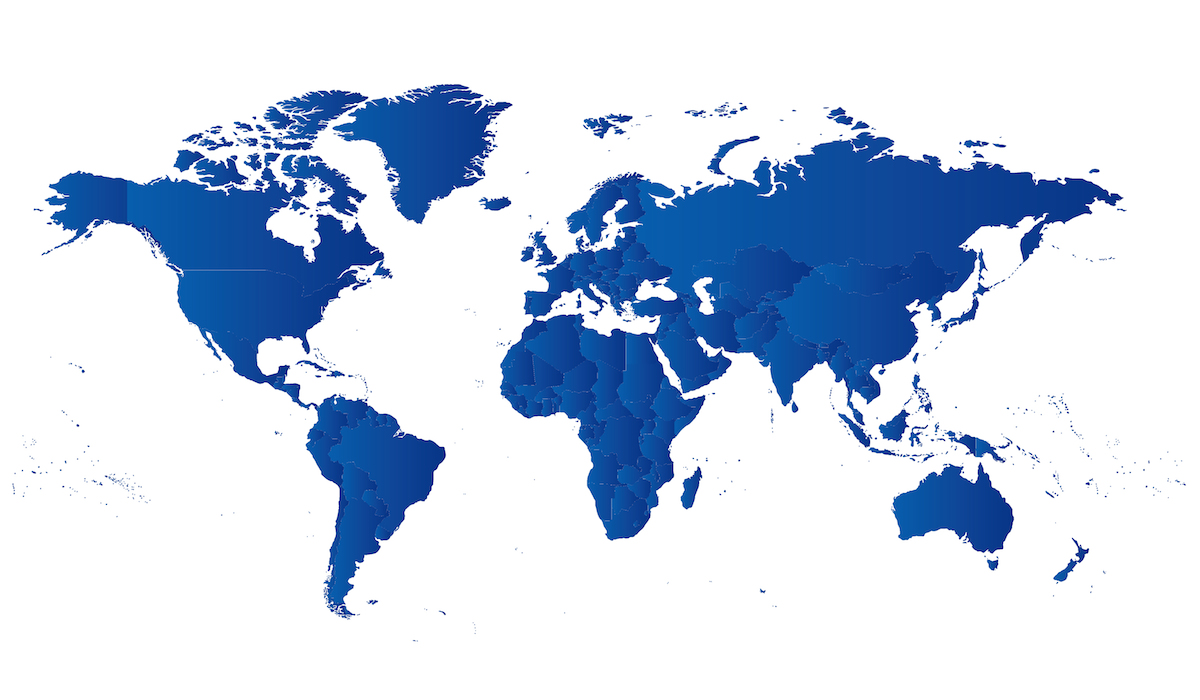
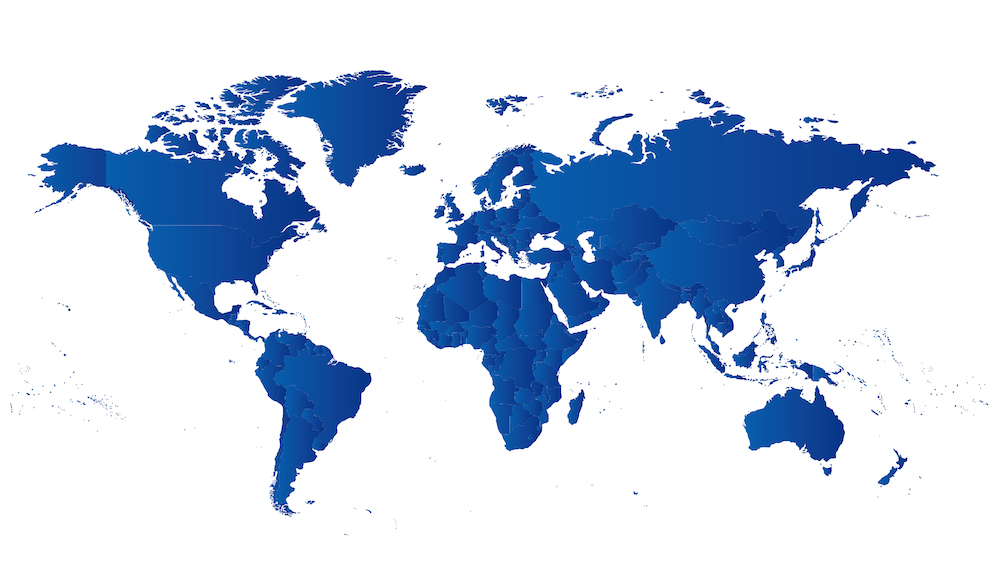
jquery toggle experiment

diff --git a/contact.html b/contact.html
@@ -26,7 +26,7 @@
   </header>
 
 <body>
-    <div id="total">
+ 
       <div id="map">
         <div class="NAmerica" id="USA" ></div>
         <div class="SAmerica" id="SA" ></div>
@@ -39,9 +39,9 @@
         <div id="ContactPane">
 
             <div class="NAmerica Africa">
-
-              <h3>North America Sales | Oryx World HQ</h3>
               <p class="ContactPhone">
+                  North America Sales </br>
+                  </br>
                   phone:</br>
                   +1 (704) 893-0202</br>
                   email:</br>
@@ -52,13 +52,22 @@
                   Indian Trail, NC 28079</br>
                   United States of America</br>
               </p>
-
             </div>
 
             <div class="SAmerica">
-              <p></p>
-              <p></br>
-                  </p>
+            <p class="ContactPhone">
+                  South America Sales | Jose Rosa Rodrigues</br>
+                  </br>
+                  phone:</br>
+                  +55-11-49410343</br>
+                  email:</br>
+                  sales@oryxsystems.com</br>
+              </p>
+             
+              <p class="ContactAddress">1064 Van Buren Ave | Suite-6</br>
+                  Indian Trail, NC 28079</br>
+                  United States of America</br>
+              </p>
             </div>
             <div class="Europe">
               <p></p>
@@ -77,41 +86,44 @@
             </div>
         </div>
       </div>
-    </div>
+
     <script type="text/javascript">
       $(document).ready(function() {
         var $overlay = $('<div id="overlay"></div>');
         var $caption = $("<p>Click to clear</p>");
 
-      $overlay.append($caption);
-      $("body").append($overlay);
+          $overlay.append($caption);
+          $("body").append($overlay);
 
-      $("#map div").click(function(){
-        //varClass = null;
+          $("#map div").click(function(){
+          //varClass = null;
 
-        console.log($(varClass));
-          //console.log($(this));
+            console.log($(varClass));
+            //console.log($(this));
 
-          //Trying to get varClass variable have the class propert ex".NAmerica"
-          var varClass = $(this).attr("class");
-          $overlay.show();
-          //alert('Total is ' + varClass);
-          //If I manually select then modify the ".NAmerica" class the effect works
-          $("#ContactPane ." + varClass).addClass("show").show().css({"background-color":"none","z-index":"50"});
-          $(".MapCLick").hide();
+            //Trying to get varClass variable have the class propert ex".NAmerica"
+            var varClass = $(this).attr("class");
+            $overlay.show();
+            //alert('Total is ' + varClass);
+            //If I manually select then modify the ".NAmerica" class the effect works
+            $("#ContactPane ." + varClass).addClass("show").show().css({"background-color":"none","z-index":"50"});
+            $(".MapCLick").hide();
+          });
+
+        $overlay.click(function(){
+          $overlay.hide();
+          $("#ContactPane .NAmerica").css({"background-color":"transparent","z-index":"0"});
+          $("#ContactPane .SAmerica").css({"background-color":"none","z-index":"0"});
+          $("#ContactPane .Africa").css({"background-color":"none","z-index":"0"});
+          $("#ContactPane .Europe").css({"background-color":"none","z-index":"0"});
+          $(".MapCLick").show().css({"background-color":"transparent"});        
+        });
+
+          $(".ContactPhone").click(function(){
+          $(".ContactPhone").slideDown( "slow", function(){;     
+          });
+        });
       });
-
-      $overlay.click(function(){
-        $overlay.hide();
-        $("#ContactPane .NAmerica").css({"background-color":"none","z-index":"0"});
-        $("#ContactPane .SAmerica").css({"background-color":"none","z-index":"0"});
-        $("#ContactPane .Africa").css({"background-color":"none","z-index":"0"});
-        $("#ContactPane .Europe").css({"background-color":"none","z-index":"0"});
-        $(".MapCLick").show().css({"background-color":"transparent"});        
-
-
-      });
-    });
     </script>
 </body>
 </html>

diff --git a/css/contact.css b/css/contact.css
@@ -3,53 +3,54 @@ Contact TEST COMMENT FOR GIT
 __________________________________
 html {
 	overflow: visible;
-}
-
-#total {
-	display: inline;
 }*/
 
+#total {
+	max-width: 1160px;
+}
+
 #map {
-	min-height: 700px;
-	width: 1160px;
+	min-height: 524px;
+	width: 900px;
 	background: url('../img/worldMap.jpg') no-repeat left;
 	background-size: cover;
-	overflow: hidden;
+	overflow: scroll;
 }
 
 .contact-container {
 	width: 40%;
-	margin: -700px 0 0 0;
-	float: right;
+	margin: -500px 0 0 0;
+	float: right;	
 	overflow: visible;
 	white-space: nowrap;
-	text-overflow: ellipsis;
-	border: 1px solid green;
+	/*border: 1px solid green;*/
 }
 
 #ContactPane {
 	font-family: 'Open Sans', sans-serif;
-	font-weight: 300;
-	line-height: 1.35em;
+	font-weight: 800;
+	line-height: 1.5em;
 	margin: 0 0 0 0;
 	width: 95%;
 	height: 700px;
 	overflow: visible;
 	float: right;
-	text-overflow: ellipsis;
-	border: 1px solid red;
+	/*border: 1px solid red;*/
 }
 
 #ContactPane div {
 	border: 1px solid gray;
-	width: 80%;
-	height: 170px;	
+	/*background-color: green;*/
+	width: 95%;
+	height: 120px;	
 	margin: 1em 0 0 0;
 	padding: 0;
 	float: right;
 	position: relative;
-	overflow: visible;
+	overflow: hidden;
+	white-space: nowrap;
 	text-overflow: ellipsis;
+
 
 }
 
@@ -59,10 +60,13 @@ html {
 }
 
 .ContactPhone {
-	height: 125px;
+	height: 250px;
 	width: 45%;
 	min-width: 210px;
 	margin: 0;
+	overflow: hidden;
+	white-space: nowrap;
+	text-overflow: ellipsis;
 }
 
 .ContactAddress {
@@ -70,8 +74,10 @@ html {
 	width: 45%;
 	min-width: 175px;
 	margin: 0 0 0 0;
+	position: relative;
+	bottom: 1.35em;
 	overflow: visible;
-	text-overflow: ellipsis;
+
 }
 
 

diff --git a/css/main.css b/css/main.css
@@ -27,11 +27,12 @@ Header
 __________________________________*/
 
 #header {
-	margin: 1em 0 0 0;
+	margin: 0 0 0 0;
 }
 
 #logo {
 	float: left;
+	clear: both;
 }
 
 /*
@@ -40,7 +41,7 @@ __________________________________*/
 
 #language {
 	text-align: right;
-	width: 55%;
+	width: 30%;
 	float: right;
 }
 
@@ -66,8 +67,11 @@ __________________________________*/
 	text-align: right;
 	margin: 5em 0 0 0;
 	padding: 0 0;
-	width: 55%;
+	width: 29%;
+	min-width: 435px;
+	clear: right;
 	float: right;
+
 }
 
 
